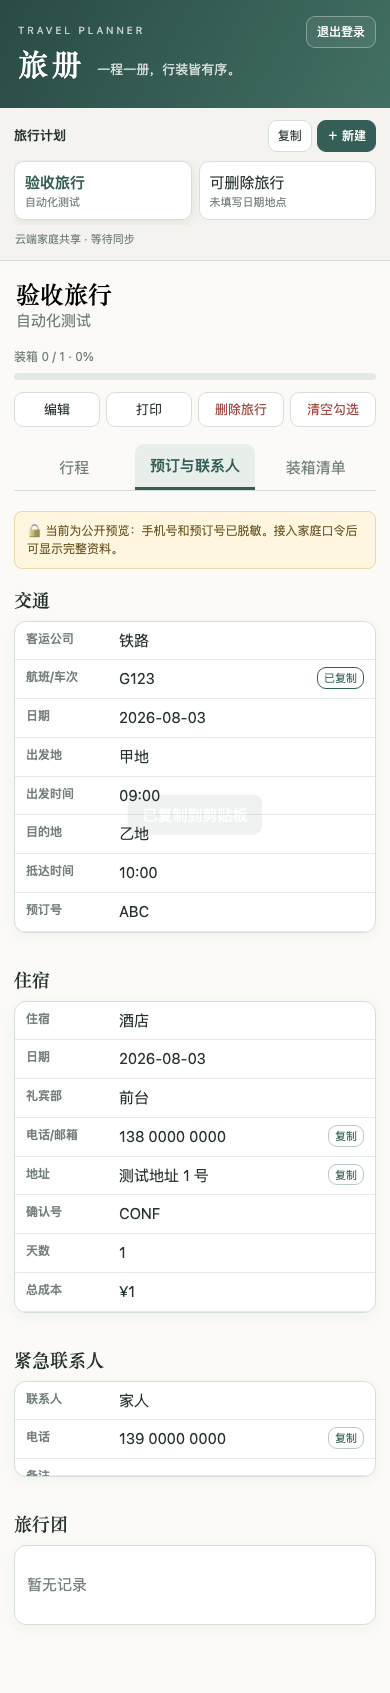
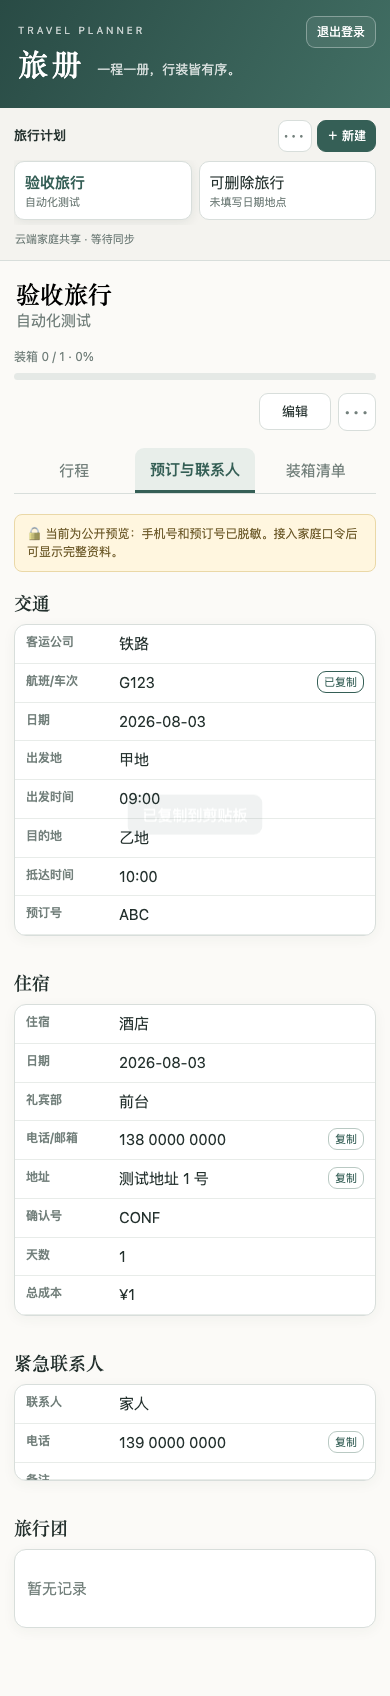
refactor: simplify trip action controls

diff --git a/app.js b/app.js
@@ -13,4 +13,5 @@ function renderPacking(root,t){let cats=document.createElement('div');cats.class
 function renderCategory(cat){let node=$('#categoryTpl').content.firstElementChild.cloneNode(true),name=node.querySelector('.category-name'),items=node.querySelector('.items');name.value=cat.name;name.onchange=()=>{cat.name=name.value;save()};cat.items.forEach(item=>items.append(renderItem(cat,item)));node.querySelector('.add-item').onclick=()=>{cat.items.push({id:uid('i'),name:'新物品',qty:1,packed:false});save();render()};node.querySelector('.remove-category').onclick=()=>{if(confirm(`删除“${cat.name}”？`)){trip().categories=trip().categories.filter(x=>x.id!==cat.id);save();render()}};node.classList.toggle('complete',cat.items.length&&cat.items.every(i=>i.packed));return node}
 function renderItem(cat,item){let r=document.createElement('div');r.className='item';r.innerHTML=`<input type="text" value="${attr(item.name)}"><input type="number" min="0" value="${item.qty}"><span class="check-cell"><input type="checkbox" ${item.packed?'checked':''}><button class="remove-item">×</button></span>`;let [n,q,c]=r.querySelectorAll('input');n.onchange=()=>{item.name=n.value;save()};q.onchange=()=>{item.qty=Math.max(0,+q.value||0);save()};c.onchange=()=>{item.packed=c.checked;save();render()};r.querySelector('button').onclick=()=>{cat.items=cat.items.filter(x=>x.id!==item.id);save();render()};return r}
 function renderProgress(){let all=trip().categories.flatMap(c=>c.items),done=all.filter(i=>i.packed).length,p=all.length?Math.round(done/all.length*100):0;$('#progressText').textContent=`装箱 ${done} / ${all.length} · ${p}%`;$('#progressBar').style.width=p+'%'}
-$('#logout').onclick=async()=>{await fetch('/api/auth/logout',{method:'POST'});location.assign('/login')};let deleteDialog=$('#deleteDialog');$('#deleteTrip').onclick=()=>{let t=trip();if(state.trips.length===1)return alert('无法删除唯一一份旅行。请先新建或复制另一份旅行，再删除本旅行。');$('#deleteTripName').textContent=t.name;deleteDialog.dataset.tripId=t.id;deleteDialog.showModal()};$('#confirmDeleteTrip').onclick=()=>{let id=deleteDialog.dataset.tripId;if(state.trips.length<=1||!state.trips.some(t=>t.id===id))return;state.trips=state.trips.filter(t=>t.id!==id);state.active=state.trips[0].id;save();render();toast('旅行已删除')};$('#editToggle').onclick=()=>{editing=!editing;render()};$('#tripName').onchange=e=>{trip().name=e.target.value;save()};$('#tripMeta').onchange=e=>{trip().meta=e.target.value;save()};$('#reset').onclick=()=>{if(confirm('清空当前旅行的全部勾选？')){trip().categories.forEach(c=>c.items.forEach(i=>i.packed=false));save();render()}};$('#duplicate').onclick=()=>{let c=structuredClone(trip());c.id=uid('t');c.name+=' · 副本';c.categories.forEach(x=>x.items.forEach(i=>i.packed=false));state.trips.push(c);state.active=c.id;save();render()};let d=$('#tripDialog');$('#newTrip').onclick=()=>d.showModal();$('#createTrip').onclick=e=>{let n=$('#newName').value.trim();if(!n){e.preventDefault();return}let t={id:uid('t'),name:n,meta:$('#newMeta').value.trim(),categories:[],itinerary:[],transport:[],hotels:[],emergency:[],tour:[]};state.trips.push(t);state.active=t.id;save();render()};init();
+function closeMenu(el){el.closest('details')?.removeAttribute('open')}
+$('#logout').onclick=async()=>{await fetch('/api/auth/logout',{method:'POST'});location.assign('/login')};let deleteDialog=$('#deleteDialog');$('#deleteTrip').onclick=e=>{closeMenu(e.currentTarget);let t=trip();if(state.trips.length===1)return alert('无法删除唯一一份旅行。请先新建或复制另一份旅行，再删除本旅行。');$('#deleteTripName').textContent=t.name;deleteDialog.dataset.tripId=t.id;deleteDialog.showModal()};$('#confirmDeleteTrip').onclick=()=>{let id=deleteDialog.dataset.tripId;if(state.trips.length<=1||!state.trips.some(t=>t.id===id))return;state.trips=state.trips.filter(t=>t.id!==id);state.active=state.trips[0].id;save();render();toast('旅行已删除')};$('#editToggle').onclick=()=>{editing=!editing;render()};$('#tripName').onchange=e=>{trip().name=e.target.value;save()};$('#tripMeta').onchange=e=>{trip().meta=e.target.value;save()};$('#reset').onclick=e=>{closeMenu(e.currentTarget);if(confirm('清空当前旅行的全部勾选？')){trip().categories.forEach(c=>c.items.forEach(i=>i.packed=false));save();render()}};$('#duplicate').onclick=e=>{closeMenu(e.currentTarget);let c=structuredClone(trip());c.id=uid('t');c.name+=' · 副本';c.categories.forEach(x=>x.items.forEach(i=>i.packed=false));state.trips.push(c);state.active=c.id;save();render()};let d=$('#tripDialog');$('#newTrip').onclick=()=>d.showModal();$('#createTrip').onclick=e=>{let n=$('#newName').value.trim();if(!n){e.preventDefault();return}let t={id:uid('t'),name:n,meta:$('#newMeta').value.trim(),categories:[],itinerary:[],transport:[],hotels:[],emergency:[],tour:[]};state.trips.push(t);state.active=t.id;save();render()};init();

diff --git a/index.html b/index.html
@@ -1,7 +1,7 @@
 <!doctype html><html lang="zh-CN"><head><meta charset="utf-8"><meta name="viewport" content="width=device-width,initial-scale=1"><meta name="theme-color" content="#355f56"><title>旅册</title><link rel="stylesheet" href="style.css"></head><body>
 <header><div><span class="eyebrow">TRAVEL PLANNER</span><h1>旅册</h1><p id="subtitle">一程一册，行装皆有序。</p></div><button id="logout">退出登录</button></header>
-<main><aside><div class="aside-title"><b>旅行计划</b><div class="trip-actions"><button id="duplicate" title="复制当前计划">复制</button><button class="primary" id="newTrip">＋ 新建</button></div></div><nav id="tripList"></nav><div class="account-bar"><span>云端家庭共享 · <span id="syncStatus">正在读取…</span></span></div></aside>
-<section class="workspace"><div class="toolbar"><div><input id="tripName" aria-label="旅行名称"><input id="tripMeta" aria-label="日期地点" placeholder="日期 · 地点"></div><div class="progress"><span id="progressText"></span><div><i id="progressBar"></i></div></div><div class="actions"><button id="editToggle">编辑</button><button onclick="window.print()">打印</button><button class="danger" id="deleteTrip">删除旅行</button><button class="danger" id="reset">清空勾选</button></div></div><div class="tabs" id="tabs"><button data-tab="itinerary">行程</button><button data-tab="bookings">预订与联系人</button><button data-tab="packing">装箱清单</button></div><div id="tabContent"></div></section></main>
+<main><aside><div class="aside-title"><b>旅行计划</b><div class="trip-actions"><details class="menu"><summary aria-label="旅行计划更多操作">•••</summary><div class="menu-panel"><button id="duplicate">复制当前旅行</button></div></details><button class="primary" id="newTrip">＋ 新建</button></div></div><nav id="tripList"></nav><div class="account-bar"><span>云端家庭共享 · <span id="syncStatus">正在读取…</span></span></div></aside>
+<section class="workspace"><div class="toolbar"><div><input id="tripName" aria-label="旅行名称"><input id="tripMeta" aria-label="日期地点" placeholder="日期 · 地点"></div><div class="progress"><span id="progressText"></span><div><i id="progressBar"></i></div></div><div class="actions"><button id="editToggle">编辑</button><details class="menu toolbar-menu"><summary aria-label="更多操作">•••</summary><div class="menu-panel"><button onclick="window.print()">打印</button><button id="reset">清空装箱勾选</button><div class="menu-separator"></div><button class="danger" id="deleteTrip">删除旅行</button></div></details></div></div><div class="tabs" id="tabs"><button data-tab="itinerary">行程</button><button data-tab="bookings">预订与联系人</button><button data-tab="packing">装箱清单</button></div><div id="tabContent"></div></section></main>
 <dialog id="tripDialog"><form method="dialog"><h2>新建旅行</h2><label>旅行名称<input id="newName" required placeholder="例如：山海行"></label><label>日期与地点<input id="newMeta" placeholder="2026.10 · 厦门"></label><menu><button value="cancel">取消</button><button value="default" id="createTrip" class="primary">创建</button></menu></form></dialog>
 <dialog id="deleteDialog"><form method="dialog"><h2>删除旅行？</h2><p>将永久删除「<strong id="deleteTripName"></strong>」，并同步到云端。此操作无法撤销。</p><p class="dialog-warning">删除后无法恢复，请确认不再需要这份旅行。</p><menu><button value="cancel">取消</button><button value="confirm" id="confirmDeleteTrip" class="danger-solid">永久删除</button></menu></form></dialog>
 <div id="toast" role="status" aria-live="polite"></div>

diff --git a/test/browser.test.js b/test/browser.test.js
@@ -17,6 +17,6 @@ test.before(async()=>{await mkdir(join(root,'docs/evidence'),{recursive:true});s
 test.after(async()=>{await browser?.close();await new Promise(r=>server.close(r))});
 
 test('desktop/mobile UX, delete guard, current day and copy feedback',async()=>{for(const [name,viewport] of [['desktop',{width:1440,height:1000}],['mobile',{width:390,height:844}]]){let context=await browser.newContext({viewport});await context.grantPermissions(['clipboard-read','clipboard-write'],{origin:base});let page=await context.newPage();await page.goto(base);await page.waitForSelector('tr.today');assert.equal(await page.locator('tr.today').count(),1);await page.getByRole('button',{name:'预订与联系人'}).click();let copy=page.getByRole('button',{name:'复制航班/车次'});await copy.click();assert.equal(await page.evaluate(()=>navigator.clipboard.readText()),'G123');await page.getByText('已复制到剪贴板').waitFor();assert.equal(await page.evaluate(()=>document.documentElement.scrollWidth<=document.documentElement.clientWidth),true,`${name} has page-level horizontal overflow`);if(name==='mobile'){assert.equal(await page.locator('.data-table thead').first().evaluate(el=>getComputedStyle(el).display),'none');assert.equal(await page.locator('.data-table tbody tr').first().evaluate(el=>getComputedStyle(el).display),'block');const logout=await page.getByRole('button',{name:'退出登录'}).boundingBox(),viewportSize=page.viewportSize();assert.ok(logout&&logout.x>viewportSize.width/2&&logout.y<130,'mobile logout is not in the upper-right header')}await page.screenshot({path:join(root,`docs/evidence/ux-${name}.png`),fullPage:true});await context.close()}
-let page=await browser.newPage();await page.goto(base);await page.getByRole('button',{name:/可删除旅行/}).click();await page.getByRole('button',{name:'删除旅行',exact:true}).click();await page.getByText('此操作无法撤销').waitFor();await page.getByRole('button',{name:'永久删除'}).click();await page.getByText('旅行已删除').waitFor();assert.equal(await page.getByRole('button',{name:/可删除旅行/}).count(),0);page.once('dialog',d=>{assert.match(d.message(),/唯一一份旅行/);d.accept()});await page.getByRole('button',{name:'删除旅行',exact:true}).click()});
+let page=await browser.newPage();await page.goto(base);await page.getByRole('button',{name:/可删除旅行/}).click();await page.locator('summary[aria-label="更多操作"]').click();await page.getByRole('button',{name:'删除旅行',exact:true}).click();await page.getByText('此操作无法撤销').waitFor();await page.getByRole('button',{name:'永久删除'}).click();await page.getByText('旅行已删除').waitFor();assert.equal(await page.getByRole('button',{name:/可删除旅行/}).count(),0);page.once('dialog',d=>{assert.match(d.message(),/唯一一份旅行/);d.accept()});await page.locator('summary[aria-label="更多操作"]').click();await page.getByRole('button',{name:'删除旅行',exact:true}).click()});
 
 test('A4 landscape print PDF stays within printable page',async()=>{let page=await browser.newPage({viewport:{width:1440,height:1000}});await page.goto(base);for(const tab of ['行程','预订与联系人','装箱清单']){await page.getByRole('button',{name:tab,exact:true}).click();let file=join(root,`docs/evidence/print-${tab}.pdf`);await page.pdf({path:file,format:'A4',landscape:true,printBackground:true,preferCSSPageSize:true});let pdf=await PDFDocument.load(await readFile(file));assert.ok(pdf.getPageCount()>=1);for(const p of pdf.getPages()){let {width,height}=p.getSize();assert.ok(width>height);assert.ok(Math.abs(width-841.89)<3&&Math.abs(height-595.28)<3)}}});

diff --git a/style.css b/style.css
@@ -80,3 +80,23 @@ header #logout{align-self:flex-start;border:1px solid #ffffff55;background:#ffff
 header #logout:hover{border-color:#fff;background:#ffffff20}
 .account-bar{width:184px}
 @media(max-width:680px){header{position:relative;padding-right:88px}header #logout{position:absolute;right:14px;top:16px}.account-bar{width:auto}.account-bar>span{font-size:11px}}
+
+/* Keep primary actions visible; tuck infrequent and destructive actions away. */
+.menu{position:relative}
+.menu summary{list-style:none;display:grid;place-items:center;min-width:38px;height:38px;border:1px solid var(--line);border-radius:9px;background:#fff;color:var(--muted);cursor:pointer;letter-spacing:2px;user-select:none}
+.menu summary::-webkit-details-marker{display:none}
+.menu[open] summary{border-color:var(--green);color:var(--green)}
+.menu-panel{position:absolute;z-index:12;right:0;top:calc(100% + 6px);width:176px;padding:6px;border:1px solid var(--line);border-radius:11px;background:#fff;box-shadow:0 12px 35px #203b3026}
+.menu-panel button{display:block;width:100%;border:0;background:transparent;text-align:left;padding:9px 10px;border-radius:7px;white-space:nowrap}
+.menu-panel button:hover{background:var(--pale)}
+.menu-panel .danger{color:#a24b43}
+.menu-separator{height:1px;margin:5px;background:var(--line)}
+.toolbar-menu .menu-panel{top:calc(100% + 7px)}
+@media(max-width:680px){
+  .actions{display:flex;justify-content:flex-end;align-items:center;gap:7px;margin-top:13px}
+  .actions>button{min-width:72px;padding:8px 16px}
+  .actions .menu summary{height:38px}
+  .trip-actions{align-items:center}
+  .trip-actions .menu summary{height:32px;min-width:34px;font-size:12px}
+  .menu-panel{width:168px}
+}
